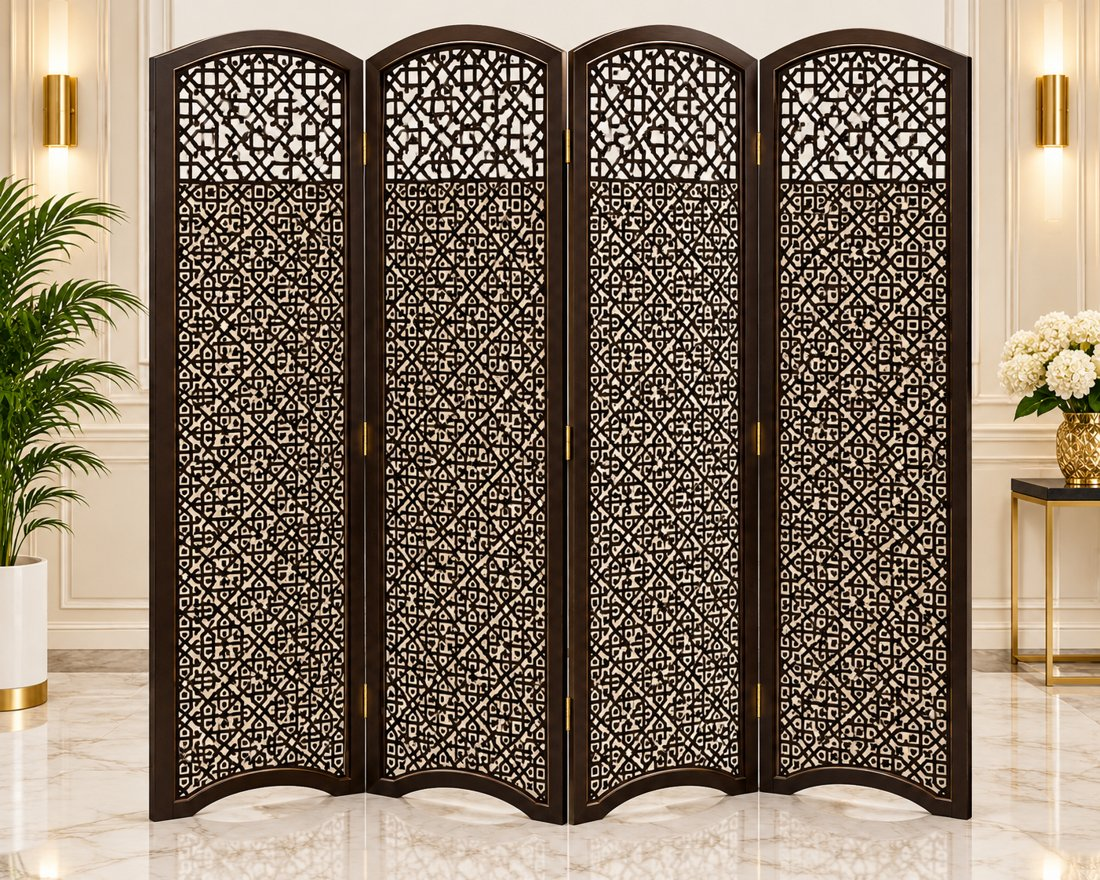
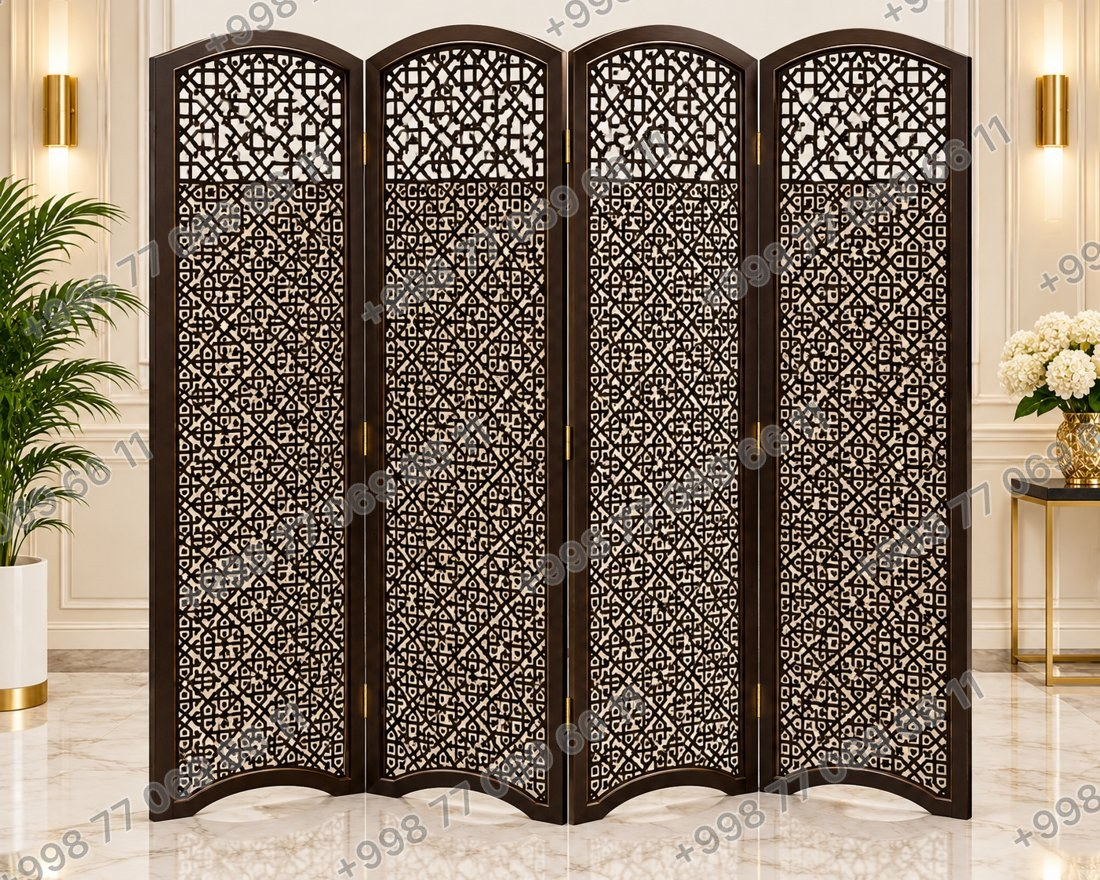
Watermark: phone number tiled in gray on the image files; also on admin uploads; existing DB images re-marked automatically on admin login
Claude-Session: https://claude.ai/code/session_011iLU14qrLxH97duP5HJLWX

diff --git a/index.html b/index.html
@@ -56,10 +56,6 @@ nav a:hover{color:var(--ink)}nav a[aria-current="page"]{color:var(--ink);border-
 section.sec{padding:88px 0}.sec.alt{background:var(--alt)}
 .head{max-width:620px;margin-bottom:48px}
 .pgrid{display:grid;grid-template-columns:repeat(auto-fill,minmax(190px,225px));gap:16px;justify-content:center}
-.pimg::before,.pdimg::after,.lb figure::before{content:"☎ +998 77 069 66 11";position:absolute;z-index:2;left:10px;bottom:10px;padding:5px 11px;border-radius:999px;background:rgba(8,32,27,.78);color:#fff;font:600 .78rem/1.2 Inter,system-ui,sans-serif;letter-spacing:.02em;white-space:nowrap;pointer-events:none;-webkit-backdrop-filter:blur(3px);backdrop-filter:blur(3px)}
-.pdimg{position:relative}.pdimg::after{left:26px;bottom:26px;font-size:.92rem;padding:7px 14px}
-.lb figure{position:relative}.lb figure::before{left:12px;top:12px;bottom:auto}
-@media(max-width:480px){.pimg::before{font-size:.7rem;padding:4px 9px;left:8px;bottom:8px}}
 .pimg{position:relative;overflow:hidden;margin-bottom:12px;background:#fff}
 .pimg img{width:100%;aspect-ratio:1/1;object-fit:contain;display:block}
 
@@ -242,7 +238,7 @@ input.bad,textarea.bad{border-color:#A5301F}
 #products .page>:not(.pgrid){text-align:center}
 #products .page>:not(.pgrid){margin-left:auto;margin-right:auto}
 #products .page>.eyebrow{display:block}
-#admtools{display:flex;align-items:center;gap:12px;margin:0 0 14px;font-size:.85rem;color:var(--muted)}#admtools b{color:var(--ink)}#admtools .amsg{flex:1}#admtools .alo{margin-left:auto;border:1px solid var(--line,#ddd);background:none;border-radius:999px;padding:5px 12px;font:inherit;cursor:pointer;color:inherit}.pc.addc{display:flex;flex-direction:column;align-items:center;justify-content:center;gap:10px;min-height:260px;border:2px dashed var(--line,#bbb);background:transparent;cursor:pointer;text-align:center}.pc.addc:hover{border-color:var(--ink)}.pc.addc .plus{font-size:2.6rem;line-height:1}.pc.addc h3{margin:0;font-size:1rem}.sl{display:flex;gap:2px;border:1px solid var(--line,#ddd);border-radius:999px;padding:2px}.sl button{border:0;background:none;font:600 .72rem inherit;font-family:inherit;padding:5px 9px;border-radius:999px;cursor:pointer;color:var(--muted)}.sl button.on{background:var(--ink);color:#fff}@media(max-width:700px){.bar{gap:10px;padding:12px 16px}.sl{order:2}}.pimg{cursor:zoom-in}.lb{position:fixed;inset:0;z-index:100;background:rgba(18,16,14,.88);display:none;align-items:center;justify-content:center;padding:16px}.lb.on{display:flex}.lb figure{margin:0;max-width:min(94vw,860px);max-height:94vh;display:flex;flex-direction:column;align-items:center;gap:12px;color:#fff;text-align:center}.lb img{max-width:100%;max-height:70vh;object-fit:contain;border-radius:8px;background:#fff}.lb h3{margin:0;font-size:1.1rem}.lb p{margin:0;opacity:.8;font-size:.9rem;max-width:560px}.lb .lp{font-weight:600}.lb .btn{margin-top:4px;background:#fff;color:#10201C;border-color:#fff}.lb button.x,.lb button.nv{position:absolute;border:0;background:rgba(255,255,255,.14);color:#fff;width:44px;height:44px;border-radius:50%;font-size:1.5rem;cursor:pointer;line-height:1}.lb button.x{top:14px;right:14px}.lb .pv{left:12px;top:50%}.lb .nx{right:12px;top:50%}@media(max-width:600px){.lb img{max-height:58vh}.lb .pv,.lb .nx{top:auto;bottom:14px}}.wrap.page.pd{padding-left:20px;padding-right:20px}.pd .back{display:inline-block;margin-bottom:22px;color:var(--muted);text-decoration:none;font-weight:500;font-size:.9rem}.pd .back:hover{color:var(--ink)}.pdgrid{display:grid;grid-template-columns:minmax(0,1.1fr) minmax(0,1fr);gap:48px;align-items:start}.pdimg{background:#fff;border:1px solid var(--line);border-radius:8px;padding:16px;position:sticky;top:90px}.pdimg img{width:100%;max-height:75vh;object-fit:contain;display:block;-webkit-user-drag:none;user-select:none}.pdinfo h1{font-size:clamp(1.7rem,3.4vw,2.4rem);margin:.1em 0 .4em}.dprice{font-size:1.7rem;font-weight:700;margin:14px 0 4px}.dprice small{display:block;font-size:.78rem;font-weight:400;color:var(--muted)}.pdl{margin:22px 0;border-top:1px solid var(--line)}.pdr{display:flex;justify-content:space-between;gap:16px;padding:12px 0;border-bottom:1px solid var(--line);font-size:.92rem}.pdr dt,.pdr dd{font-family:Inter,system-ui,sans-serif;font-size:.92rem;line-height:1.5;letter-spacing:0;text-transform:none;margin:0}.pdr dt{color:var(--muted);font-weight:400}.pdr dd{text-align:right;font-weight:500}#pdf{margin-top:18px;padding:18px;border:1px solid var(--line);border-radius:8px;background:var(--alt);display:grid;gap:12px}#pdf[hidden]{display:none}#pdf label{display:grid;gap:6px;font-size:.85rem;font-weight:500}#pdf input{font:inherit;padding:12px;border:1px solid var(--line);border-radius:2px;background:#fff}#pdf input.bad{border-color:#c0392b}#pdm{margin:0;font-size:.9rem}#pdm.okmsg{color:#1f7a3d;font-weight:600}.rel-h{text-align:center;margin:64px 0 24px}.pdrel{margin-top:8px}.pdrel .pimg{cursor:pointer}@media(max-width:800px){.pdgrid{grid-template-columns:1fr;gap:24px}.pdimg{position:relative}}html.js .pc[data-aos]:not(.aos-in){transform:translateY(36px) scale(.94)}@media(max-width:700px){.bar .logo{order:0}.bar .sl{order:1;margin-left:auto}.bar nav{order:2;flex-basis:100%}}.pc{position:relative}.adm{position:absolute;top:8px;right:8px;display:flex;gap:6px;z-index:3}.adm button{border:0;background:rgba(255,255,255,.95);box-shadow:0 1px 6px rgba(0,0,0,.25);border-radius:50%;width:32px;height:32px;cursor:pointer;font-size:15px;line-height:1}.admrow{display:flex;gap:10px;margin-top:12px;flex-wrap:wrap}.admrow[hidden]{display:none}.admrow .btn{padding:10px 16px}#admbar{position:fixed;left:12px;bottom:12px;z-index:90;display:flex;gap:8px;align-items:center;flex-wrap:wrap;background:#10201C;color:#fff;padding:8px 10px;border-radius:10px;font-size:.8rem;box-shadow:0 8px 24px rgba(0,0,0,.3);max-width:calc(100vw - 24px)}#admbar b{padding:0 6px}#admbar button{border:1px solid rgba(255,255,255,.35);background:transparent;color:#fff;border-radius:6px;padding:6px 10px;cursor:pointer;font:inherit}#admbar button:hover{background:rgba(255,255,255,.15)}.am{position:fixed;inset:0;z-index:200;background:rgba(0,0,0,.55);display:flex;align-items:flex-start;justify-content:center;padding:16px;overflow:auto}.amc{background:#fff;border-radius:8px;padding:22px;width:min(520px,100%);margin:auto;display:grid;gap:12px;position:relative}.amc h3{margin:0}.amc label{display:grid;gap:5px;font-size:.85rem;font-weight:500}.amc input,.amc textarea{font:inherit;padding:10px;border:1px solid var(--line);border-radius:2px;background:#fff;color:var(--ink)}.amc textarea{min-height:70px;resize:vertical}.amc details{border:1px solid var(--line);border-radius:6px;padding:10px;display:grid;gap:10px}.amc summary{cursor:pointer;font-size:.85rem}.amx{position:absolute;top:8px;right:8px;border:0;background:none;font-size:1.6rem;cursor:pointer;line-height:1;color:var(--ink)}.amm{margin:0;font-size:.88rem;color:#c0392b}.amm.ok{color:#1f7a3d}.amprev{max-width:100%;max-height:200px;object-fit:contain;border:1px solid var(--line);border-radius:6px}</style><script>if("IntersectionObserver"in window&&!matchMedia("(prefers-reduced-motion:reduce)").matches)document.documentElement.className+=" js"</script></head><body><div id="pg"></div>
+#admtools{display:flex;align-items:center;gap:12px;margin:0 0 14px;font-size:.85rem;color:var(--muted)}#admtools b{color:var(--ink)}#admtools .amsg{flex:1}#admtools .alo{margin-left:auto;border:1px solid var(--line,#ddd);background:none;border-radius:999px;padding:5px 12px;font:inherit;cursor:pointer;color:inherit}.pc.addc{display:flex;flex-direction:column;align-items:center;justify-content:center;gap:10px;min-height:260px;border:2px dashed var(--line,#bbb);background:transparent;cursor:pointer;text-align:center}.pc.addc:hover{border-color:var(--ink)}.pc.addc .plus{font-size:2.6rem;line-height:1}.pc.addc h3{margin:0;font-size:1rem}.sl{display:flex;gap:2px;border:1px solid var(--line,#ddd);border-radius:999px;padding:2px}.sl button{border:0;background:none;font:600 .72rem inherit;font-family:inherit;padding:5px 9px;border-radius:999px;cursor:pointer;color:var(--muted)}.sl button.on{background:var(--ink);color:#fff}@media(max-width:700px){.bar{gap:10px;padding:12px 16px}.sl{order:2}}.pimg{cursor:zoom-in}.lb{position:fixed;inset:0;z-index:100;background:rgba(18,16,14,.88);display:none;align-items:center;justify-content:center;padding:16px}.lb.on{display:flex}.lb figure{margin:0;max-width:min(94vw,860px);max-height:94vh;display:flex;flex-direction:column;align-items:center;gap:12px;color:#fff;text-align:center}.lb img{max-width:100%;max-height:70vh;object-fit:contain;border-radius:8px;background:#fff}.lb h3{margin:0;font-size:1.1rem}.lb p{margin:0;opacity:.8;font-size:.9rem;max-width:560px}.lb .lp{font-weight:600}.lb .btn{margin-top:4px;background:#fff;color:#10201C;border-color:#fff}.lb button.x,.lb button.nv{position:absolute;border:0;background:rgba(255,255,255,.14);color:#fff;width:44px;height:44px;border-radius:50%;font-size:1.5rem;cursor:pointer;line-height:1}.lb button.x{top:14px;right:14px}.lb .pv{left:12px;top:50%}.lb .nx{right:12px;top:50%}@media(max-width:600px){.lb img{max-height:58vh}.lb .pv,.lb .nx{top:auto;bottom:14px}}.wrap.page.pd{padding-left:20px;padding-right:20px}.pd .back{display:inline-block;margin-bottom:22px;color:var(--muted);text-decoration:none;font-weight:500;font-size:.9rem}.pd .back:hover{color:var(--ink)}.pdgrid{display:grid;grid-template-columns:minmax(0,1.1fr) minmax(0,1fr);gap:48px;align-items:start}.pdimg{background:#fff;border:1px solid var(--line);border-radius:8px;padding:16px;position:sticky;top:90px}.pdimg img{width:100%;max-height:75vh;object-fit:contain;display:block;-webkit-user-drag:none;user-select:none}.pdinfo h1{font-size:clamp(1.7rem,3.4vw,2.4rem);margin:.1em 0 .4em}.dprice{font-size:1.7rem;font-weight:700;margin:14px 0 4px}.dprice small{display:block;font-size:.78rem;font-weight:400;color:var(--muted)}.pdl{margin:22px 0;border-top:1px solid var(--line)}.pdr{display:flex;justify-content:space-between;gap:16px;padding:12px 0;border-bottom:1px solid var(--line);font-size:.92rem}.pdr dt,.pdr dd{font-family:Inter,system-ui,sans-serif;font-size:.92rem;line-height:1.5;letter-spacing:0;text-transform:none;margin:0}.pdr dt{color:var(--muted);font-weight:400}.pdr dd{text-align:right;font-weight:500}#pdf{margin-top:18px;padding:18px;border:1px solid var(--line);border-radius:8px;background:var(--alt);display:grid;gap:12px}#pdf[hidden]{display:none}#pdf label{display:grid;gap:6px;font-size:.85rem;font-weight:500}#pdf input{font:inherit;padding:12px;border:1px solid var(--line);border-radius:2px;background:#fff}#pdf input.bad{border-color:#c0392b}#pdm{margin:0;font-size:.9rem}#pdm.okmsg{color:#1f7a3d;font-weight:600}.rel-h{text-align:center;margin:64px 0 24px}.pdrel{margin-top:8px}.pdrel .pimg{cursor:pointer}@media(max-width:800px){.pdgrid{grid-template-columns:1fr;gap:24px}.pdimg{position:static}}html.js .pc[data-aos]:not(.aos-in){transform:translateY(36px) scale(.94)}@media(max-width:700px){.bar .logo{order:0}.bar .sl{order:1;margin-left:auto}.bar nav{order:2;flex-basis:100%}}.pc{position:relative}.adm{position:absolute;top:8px;right:8px;display:flex;gap:6px;z-index:3}.adm button{border:0;background:rgba(255,255,255,.95);box-shadow:0 1px 6px rgba(0,0,0,.25);border-radius:50%;width:32px;height:32px;cursor:pointer;font-size:15px;line-height:1}.admrow{display:flex;gap:10px;margin-top:12px;flex-wrap:wrap}.admrow[hidden]{display:none}.admrow .btn{padding:10px 16px}#admbar{position:fixed;left:12px;bottom:12px;z-index:90;display:flex;gap:8px;align-items:center;flex-wrap:wrap;background:#10201C;color:#fff;padding:8px 10px;border-radius:10px;font-size:.8rem;box-shadow:0 8px 24px rgba(0,0,0,.3);max-width:calc(100vw - 24px)}#admbar b{padding:0 6px}#admbar button{border:1px solid rgba(255,255,255,.35);background:transparent;color:#fff;border-radius:6px;padding:6px 10px;cursor:pointer;font:inherit}#admbar button:hover{background:rgba(255,255,255,.15)}.am{position:fixed;inset:0;z-index:200;background:rgba(0,0,0,.55);display:flex;align-items:flex-start;justify-content:center;padding:16px;overflow:auto}.amc{background:#fff;border-radius:8px;padding:22px;width:min(520px,100%);margin:auto;display:grid;gap:12px;position:relative}.amc h3{margin:0}.amc label{display:grid;gap:5px;font-size:.85rem;font-weight:500}.amc input,.amc textarea{font:inherit;padding:10px;border:1px solid var(--line);border-radius:2px;background:#fff;color:var(--ink)}.amc textarea{min-height:70px;resize:vertical}.amc details{border:1px solid var(--line);border-radius:6px;padding:10px;display:grid;gap:10px}.amc summary{cursor:pointer;font-size:.85rem}.amx{position:absolute;top:8px;right:8px;border:0;background:none;font-size:1.6rem;cursor:pointer;line-height:1;color:var(--ink)}.amm{margin:0;font-size:.88rem;color:#c0392b}.amm.ok{color:#1f7a3d}.amprev{max-width:100%;max-height:200px;object-fit:contain;border:1px solid var(--line);border-radius:6px}</style><script>if("IntersectionObserver"in window&&!matchMedia("(prefers-reduced-motion:reduce)").matches)document.documentElement.className+=" js"</script></head><body><div id="pg"></div>
 <header><div class="bar">
 <a class="logo" href="#home" aria-label="Revo — bosh sahifa">REVO<small>SHIRMALAR</small></a>
 <nav aria-label="Asosiy menyu"><a href="#home" data-p="home">Bosh sahifa</a><a href="#products" data-p="products">Mahsulotlar</a><a href="#rover" data-p="rover">Rover xizmati</a><a href="#contact" data-p="contact">Aloqa</a></nav>
@@ -524,7 +520,7 @@ var v="BEGIN:VCARD\r\nVERSION:3.0\r\nFN:Revo shirmalar\r\nORG:Revo\r\nTITLE:Shir
 try{var u=URL.createObjectURL(new Blob([v],{type:"text/vcard"})),a=document.createElement("a");a.href=u;a.download="revo-shirmalar.vcf";document.body.appendChild(a);a.click();a.remove();setTimeout(function(){URL.revokeObjectURL(u)},2000)}catch(e){location.href="data:text/vcard;charset=utf-8,"+encodeURIComponent(v)}})})();
 /* ---- Admin (Ctrl+7): mahsulotlarni Supabase bazasida boshqarish ---- */
 var SBU="https://gdztsvxcxfoqptogvwhf.supabase.co",SBK="sb_publishable_gem3ctWVyChi3yEKqUJjvQ_gVdp4Cw2",AEMAIL="admin@revo-sayt.uz",BK="site-products";
-var sess=null,rows=[],DB=false,loaded=false,migrating=false,mfail=false,staticPR=PR.slice();
+var sess=null,rows=[],DB=false,loaded=false,migrating=false,mfail=false,wmRun=false,wmFail=false,staticPR=PR.slice();
 try{sess=JSON.parse(localStorage.getItem("revo-admin")||"null")}catch(e){}
 function saveSess(){try{if(sess)localStorage.setItem("revo-admin",JSON.stringify(sess));else localStorage.removeItem("revo-admin")}catch(e){}}
 function tokenReq(body,q){return fetch(SBU+"/auth/v1/token?grant_type="+q,{method:"POST",headers:{apikey:SBK,"Content-Type":"application/json"},body:JSON.stringify(body)}).then(function(r){return r.json().then(function(j){return r.ok&&j.access_token?j:null},function(){return null})},function(){return {neterr:1}})}
@@ -558,16 +554,19 @@ function chrome(){var old=document.getElementById("admbar");if(old)old.remove();
  if(bmsg)t.appendChild(el("span","amsg",bmsg));
  t.appendChild(btn("Chiqish",function(){setSess(null);chrome();loadRows().then(function(){if(DB)renderRows()})},"alo"));
  var ad=document.getElementById("pdadm");if(ad)ad.hidden=!(sess&&DB&&PR[cur]&&PR[cur].row);
- if(sess&&loaded&&!DB&&!migrating&&!mfail)migrate(true)}
+ if(sess&&loaded&&!DB&&!migrating&&!mfail)migrate(true);if(sess&&DB&&!wmRun&&!wmFail)remark()}
 function modal(inner){var o=el("div","am");o.innerHTML='<div class="amc"><button type="button" class="amx" aria-label="Yopish">×</button>'+inner+'</div>';document.body.appendChild(o);o.querySelector(".amx").addEventListener("click",function(){o.remove()});return o}
 function openLogin(){if(document.querySelector(".am")||sess)return;
  var o=modal('<h3>Admin</h3><label>Parol<input type="password" id="apw" autocomplete="current-password"></label><p class="amm" id="amm"></p><button type="button" class="btn" id="alg">Kirish</button>');
  var pw=o.querySelector("#apw"),m=o.querySelector("#amm"),g=o.querySelector("#alg");setTimeout(function(){pw.focus()},30);
  function go(){if(!pw.value)return;g.disabled=true;m.textContent="";tokenReq({email:AEMAIL,password:pw.value},"password").then(function(j){g.disabled=false;if(j&&j.neterr){m.textContent="Server bilan aloqa yo‘q. Internetni tekshiring (Claude sinov oynasida ishlamaydi, jonli saytda sinang).";return}if(!j){m.textContent="Parol noto‘g‘ri yoki admin hisobi sozlanmagan.";return}setSess(j);o.remove();loadRows().then(chrome)})}
  g.addEventListener("click",go);pw.addEventListener("keydown",function(e){if(e.key==="Enter")go()})}
-function resizeBlob(file){return new Promise(function(res,rej){var u=URL.createObjectURL(file),im=new Image();im.onload=function(){var s=Math.min(1,1400/Math.max(im.naturalWidth,im.naturalHeight)),c=document.createElement("canvas");c.width=Math.round(im.naturalWidth*s);c.height=Math.round(im.naturalHeight*s);var x=c.getContext("2d");x.fillStyle="#fff";x.fillRect(0,0,c.width,c.height);x.drawImage(im,0,0,c.width,c.height);URL.revokeObjectURL(u);c.toBlob(function(b){b?res(b):rej(new Error("img"))},"image/jpeg",.86)};im.onerror=function(){rej(new Error("img"))};im.src=u})}
+var WMT="+998 77 069 66 11";
+function wmark(c){var x=c.getContext("2d"),W=c.width,H=c.height,fs=Math.max(14,Math.round(Math.min(W,H)*.045));x.save();x.font="600 "+fs+"px Inter,system-ui,sans-serif";x.textBaseline="alphabetic";var tw=x.measureText(WMT).width,sx=tw*1.7,sy=fs*3.8,d=Math.sqrt(W*W+H*H)+sx;x.translate(W/2,H/2);x.rotate(-30*Math.PI/180);x.fillStyle="rgba(120,120,120,.47)";x.strokeStyle="rgba(255,255,255,.27)";x.lineWidth=Math.max(1,fs/9);x.lineJoin="round";
+ for(var y=-d/2,r=0;y<d/2;y+=sy,r++){var off=r%2?sx/2:0;for(var xx=-d/2-sx;xx<d/2;xx+=sx){x.strokeText(WMT,xx+off,y);x.fillText(WMT,xx+off,y)}}x.restore()}
+function resizeBlob(file){return new Promise(function(res,rej){var u=URL.createObjectURL(file),im=new Image();im.onload=function(){var s=Math.min(1,1400/Math.max(im.naturalWidth,im.naturalHeight)),c=document.createElement("canvas");c.width=Math.round(im.naturalWidth*s);c.height=Math.round(im.naturalHeight*s);var x=c.getContext("2d");x.fillStyle="#fff";x.fillRect(0,0,c.width,c.height);x.drawImage(im,0,0,c.width,c.height);wmark(c);URL.revokeObjectURL(u);c.toBlob(function(b){b?res(b):rej(new Error("img"))},"image/jpeg",.88)};im.onerror=function(){rej(new Error("img"))};im.src=u})}
 function upload(blob,name){return api("/storage/v1/object/"+BK+"/"+name,{method:"POST",headers:{"Content-Type":blob.type||"image/jpeg","x-upsert":"true"},body:blob}).then(function(r){if(!r.ok)throw new Error("upload "+r.status);return SBU+"/storage/v1/object/public/"+BK+"/"+name})}
-function uname(ext){return Date.now()+"-"+Math.random().toString(36).slice(2,8)+"."+ext}
+function uname(ext){return "wm-"+Date.now()+"-"+Math.random().toString(36).slice(2,8)+"."+ext}
 function errText(e){var m=String(e&&e.message||e);return /40[13]/.test(m)?"Ruxsat yo‘q: Supabase sozlamasi (SQL) bajarilmagan yoki admin hisobi to‘g‘ri emas.":"Xatolik: "+m}
 function openEdit(r){if(document.querySelector(".am"))return;var v=r||{};
  var o=modal('<h3>'+(r?'Mahsulotni tahrirlash':'Yangi mahsulot')+'</h3>'+
@@ -592,6 +591,11 @@ function openEdit(r){if(document.querySelector(".am"))return;var v=r||{};
    return api("/rest/v1/site_products"+(r?"?id=eq."+r.id:""),{method:r?"PATCH":"POST",headers:{"Content-Type":"application/json"},body:JSON.stringify(row)}).then(function(res){if(!res.ok)throw new Error("save "+res.status)})})
   .then(function(){o.remove();DB=true;return loadRows()})
   .catch(function(e){b.disabled=false;m.className="amm";m.textContent=errText(e)})})}
+function remark(){var todo=rows.filter(function(r){return r.image_url&&!/\/wm-[^\/]*$/.test(r.image_url)});if(!todo.length)return;wmRun=true;var chain=Promise.resolve();
+ todo.forEach(function(r,i){chain=chain.then(function(){bmsg="Rasmlarga raqam qo‘shilmoqda "+(i+1)+"/"+todo.length+"...";chrome();
+  return fetch(r.image_url).then(function(x){if(!x.ok)throw new Error("img "+x.status);return x.blob()}).then(resizeBlob).then(function(bl){return upload(bl,uname("jpg"))}).then(function(url){
+   return api("/rest/v1/site_products?id=eq."+r.id,{method:"PATCH",headers:{"Content-Type":"application/json"},body:JSON.stringify({image_url:url})}).then(function(res){if(!res.ok)throw new Error("save "+res.status)})})})});
+ chain.then(function(){bmsg="";wmRun=false;return loadRows()}).catch(function(e){wmRun=false;wmFail=true;bmsg=errText(e);chrome()})}
 function delRow(r){if(document.querySelector(".am"))return;
  var o=modal('<h3>O‘chirish</h3><p></p><button type="button" class="btn" id="dyes">Ha, o‘chirish</button><p class="amm" id="amm"></p>');
  o.querySelector("p").textContent="“"+r.name_uz+"” o‘chirilsinmi?";
